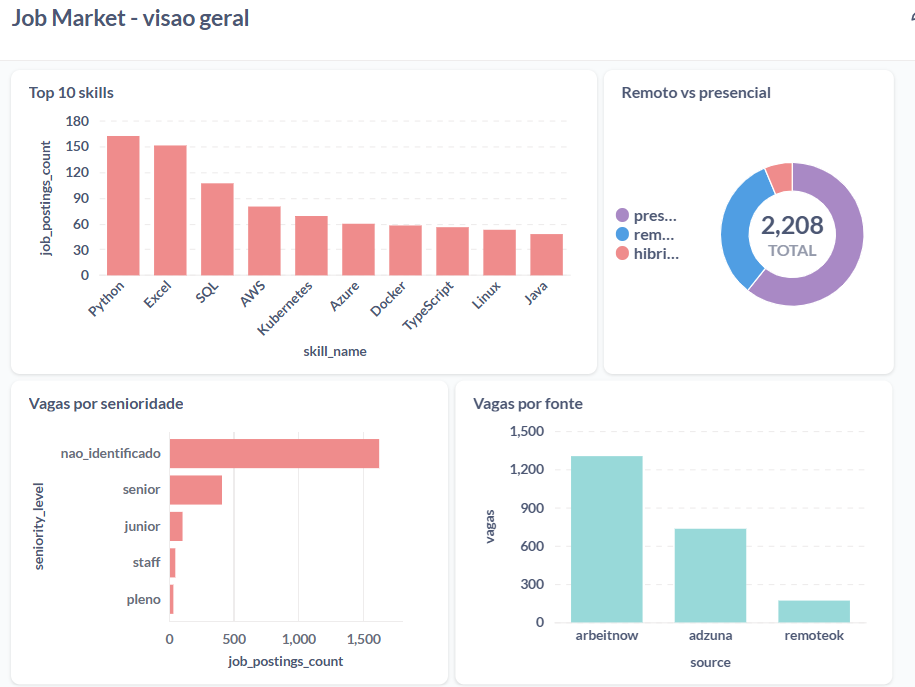
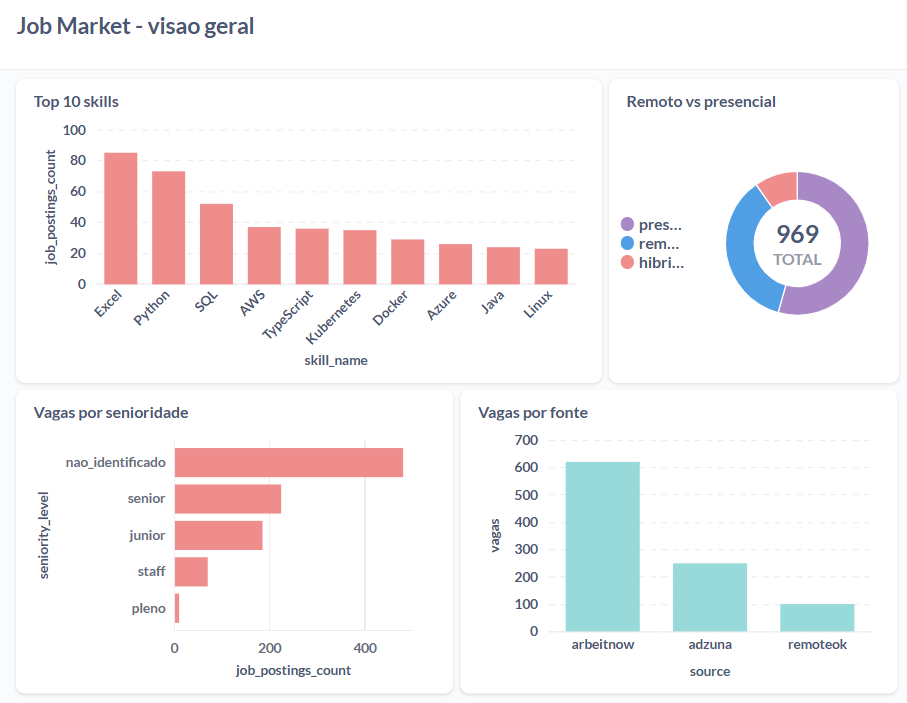
readme: screenshot do dashboard com os dados novos
Substitui o print, que era anterior ao fallback de descrição e mostrava a
distribuição de senioridade velha. Remove o aviso de desatualizado das
limitações.

Claude-Session: https://claude.ai/code/session_016GsHa2FAJsx9CzQeGbshLV

diff --git a/README.md b/README.md
@@ -87,5 +87,3 @@ Setup, variáveis de ambiente e comandos em [`docs/desenvolvimento.md`](docs/des
   tecnologia. A senioridade tenta o título primeiro e cai pra descrição quando o título
   não resolve; a descrição acerta 87% das vezes em que dispara, então `seniority_source`
   marca de onde veio o rótulo, pra quem quiser filtrar só o sinal de título.
-- O screenshot do dashboard acima é anterior a essa mudança na senioridade, então a
-  distribuição que aparece nele está desatualizada.
